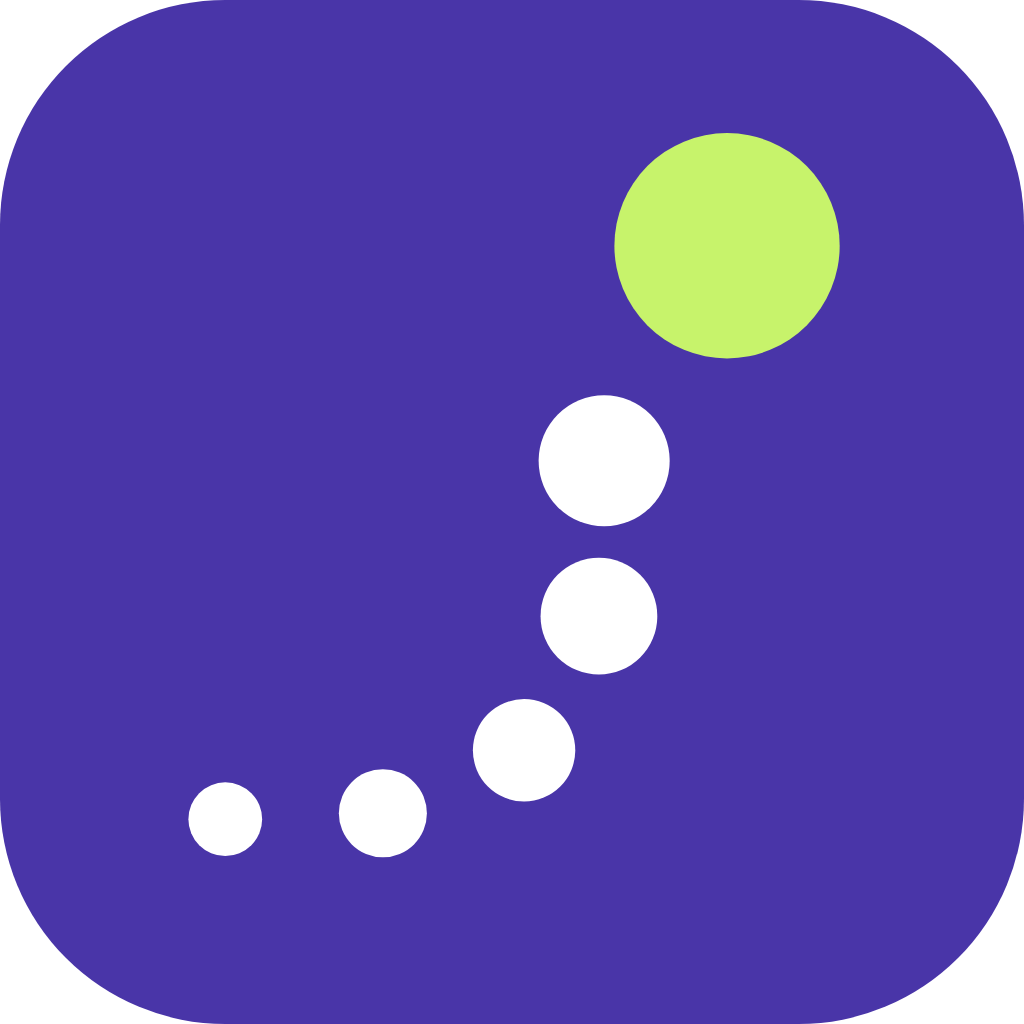
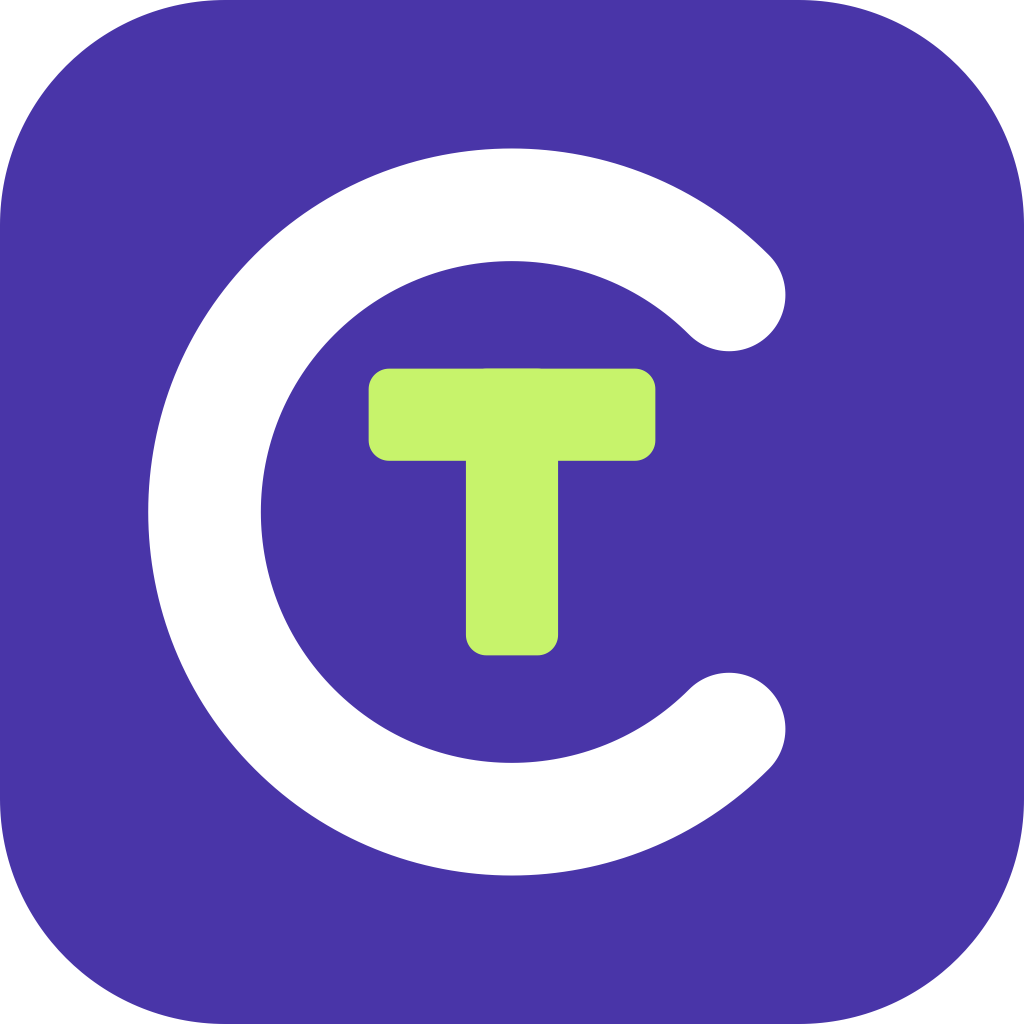
새 Trailcred 심볼 로고로 교체 (가로형·앱 아이콘·홈 화면 아이콘 PNG, 보라 배경 로고 추가)

Changed region(s): [[0.125, 0.125, 0.8438, 0.875]]

diff --git a/src/config/brand.ts b/src/config/brand.ts
@@ -12,6 +12,8 @@ export const SLOGAN = {
 } as const;
 
 // 로고 파일 (public/brand/). 화면은 이 경로만 쓴다. 팀 드라이브의 SVG를 쓴다 (CLAUDE.md 6절).
+// 2026-11-23: 새 심볼(보라 사각형 + 흰 C자 곡선 + 라임 T)로 교체. 이름·슬로건은 그대로. 받은 파일 이름에 한글이 있어 기존 영어 이름으로 넣었다
+//   (가로형_슬로건 → Trailcred_logo.svg, 심볼 → Trailcred_app_icon.svg, 보라배경_슬로건 → Trailcred_logo_purple.svg)
 // 가로형 로고: 심볼 + "Trailcred" + 영어 태그라인. 흰 바탕용, 글자는 패스로 변환됨 (viewBox 385×100)
 export const LOGO_PATH = "/brand/Trailcred_logo.svg";
 export const LOGO_WIDTH = 1155;
@@ -22,4 +24,5 @@ export const APP_ICON_PATH = "/brand/Trailcred_app_icon.svg";
 // 휴대폰 홈 화면 아이콘(apple-touch-icon)은 SVG를 받지 않아 같은 그림의 PNG를 쓴다
 export const APPLE_ICON_PATH = "/brand/Trailcred_app_icon_1024.png";
 
-// TODO: 보라 바탕용 로고("Trail" 흰색 + "cred" 라임)를 받으면 경로 추가
+// 보라 바탕용 로고("Trail" 흰색 + "cred" 라임, 태그라인 연보라). 지금 화면에서는 쓰지 않는다 (보라 배너 금지, 6-2). 발표 자료용
+export const LOGO_ON_PURPLE_PATH = "/brand/Trailcred_logo_purple.svg";
